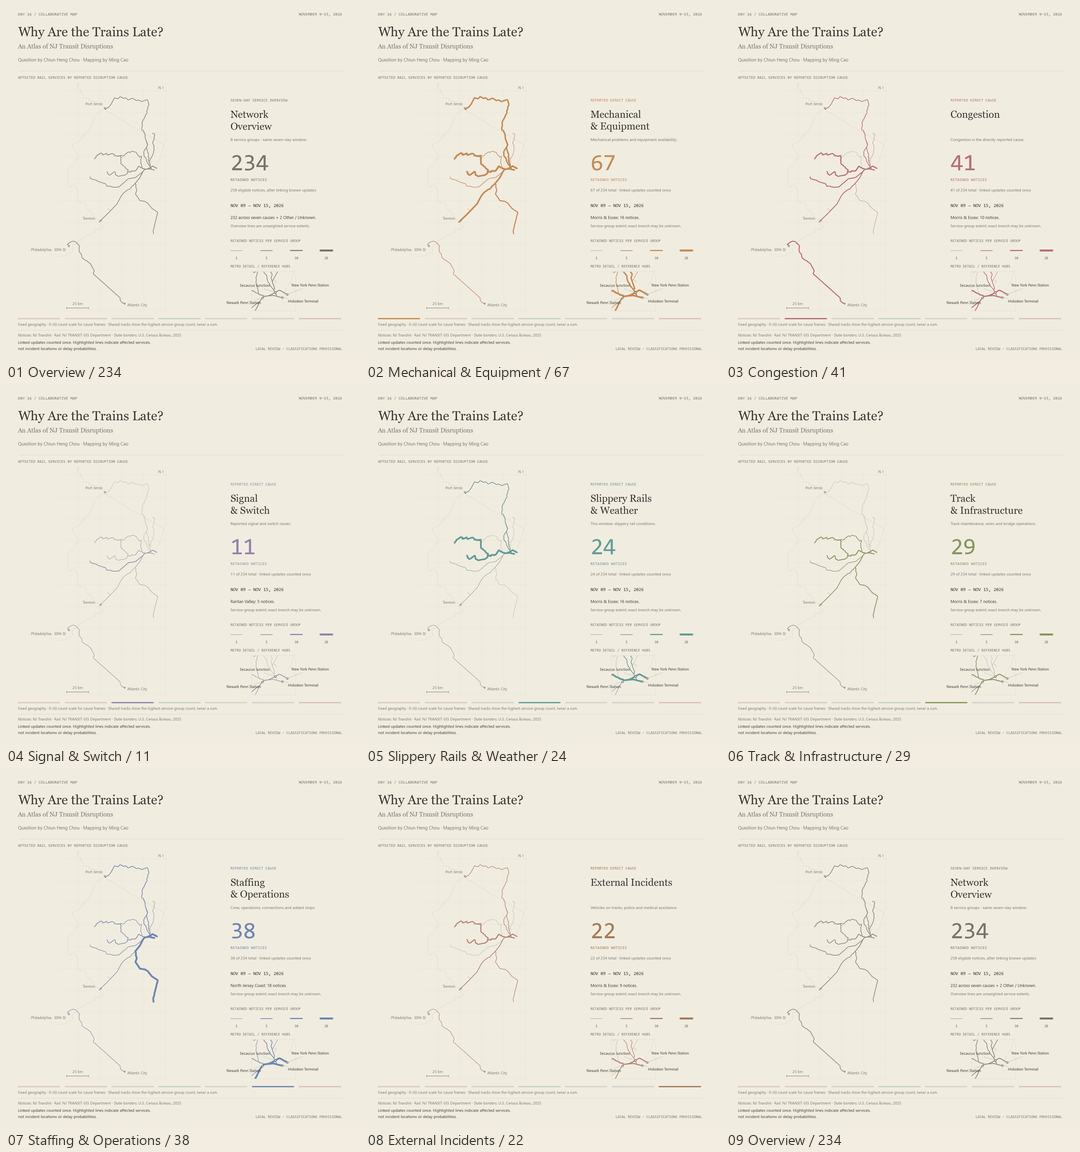
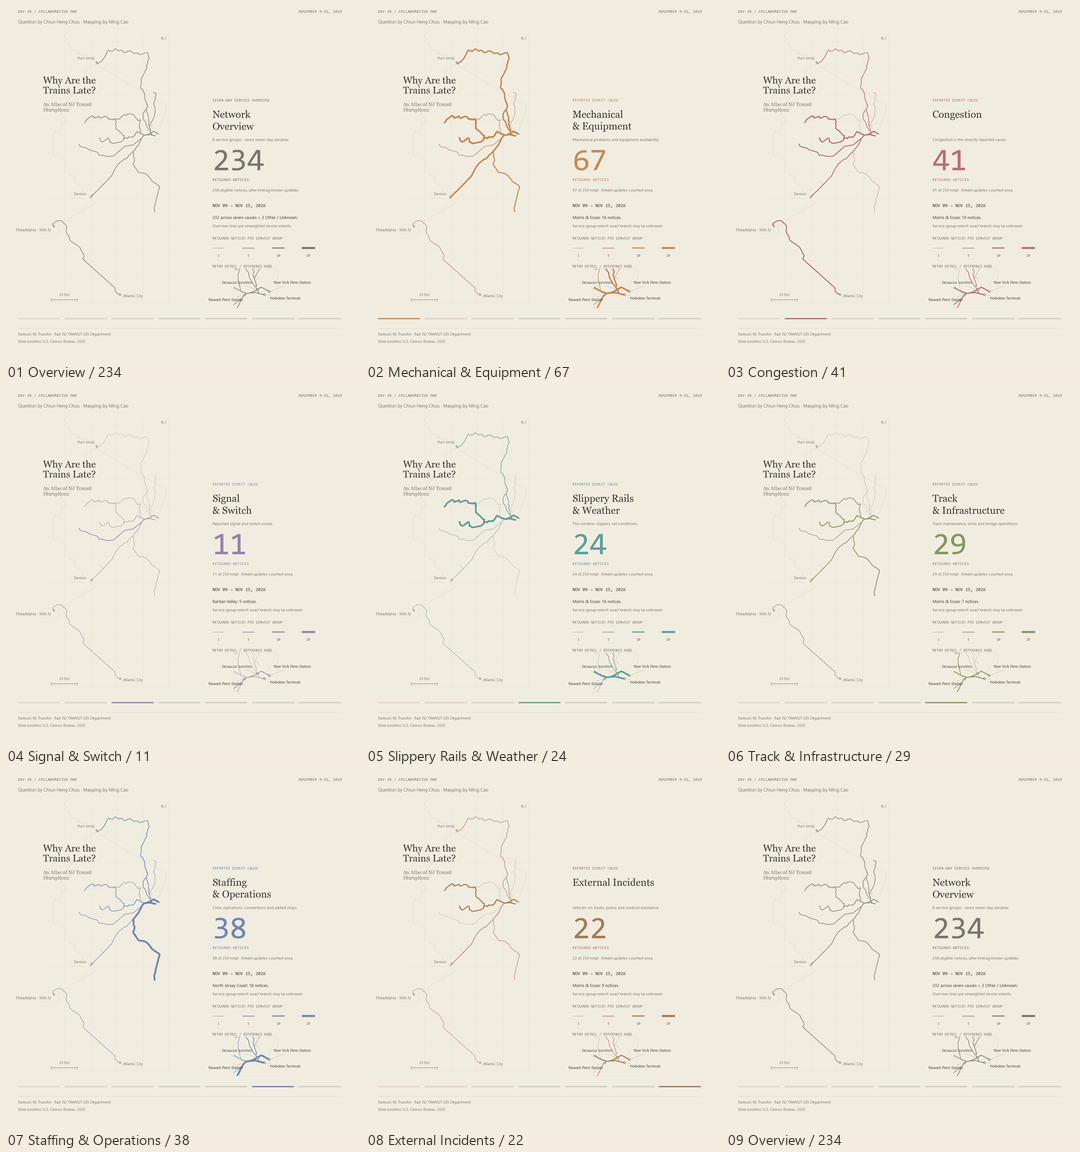
day16

diff --git a/docs/index.html b/docs/index.html
@@ -6,6 +6,8 @@
 /* Keep Day 14 artwork centered at 75% within its original display area. */
 #day-14 .media-grid figure{aspect-ratio:720 / 655;position:relative}
 #day-14 .cover-link{position:absolute;width:75%;max-width:100%;left:12.5%;top:50%;transform:translateY(-50%)}
+/* Selected artwork uses 70% of its existing media column, without transform scaling. */
+#day-04 .cover-link,#day-09 .cover-link,#day-16 .cover-link{width:70%;margin-inline:auto}
 </style></head><body><main><div class="intro"><div class="eyebrow">30 DAY MAP CHALLENGE 2026</div><h1>Map collection</h1><p>Maps and spatial illustrations by Ming Cao.</p></div><section class="gallery" aria-label="Completed maps"><article id="day-01" aria-labelledby="title-01"><header><p class="day">DAY 01 / POINTS</p><h2 id="title-01">NYC Changing Station Explorer</h2><p class="description">Public changing-table locations across New York City are mapped from NYC Open Data restroom records and grouped by reported placement.</p><p class="tools">Python · JavaScript · Leaflet · Playwright</p><nav class="links" aria-label="Day 01 resources"><a href="nyc-changing-stations/" target="_blank" rel="noopener noreferrer">View interactive map</a><a href="https://github.com/MingC404/30DayMapChallenge/tree/main/01" target="_blank" rel="noopener noreferrer">Source &amp; methods</a><a href="nyc-changing-stations/preview.png" target="_blank" rel="noopener noreferrer">Static PNG</a></nav></header><div class="media-grid"><figure><a class="cover-link" href="nyc-changing-stations/" target="_blank" rel="noopener noreferrer" aria-label="NYC Changing Station Explorer — Animated changing-table map — Open interactive map (new tab)"><img src="nyc-changing-stations/preview.gif" alt="NYC borough map of changing tables reported in public restrooms" width="1200" height="900"></a></figure></div></article>
 <article id="day-02" aria-labelledby="title-02"><header><p class="day">DAY 02 / LINES</p><h2 id="title-02">Waterfront Walks</h2><p class="description">Recorded waterfront paths in Jersey City and Brooklyn are classified by surface and walking-permission tags from OpenStreetMap.</p><p class="tools">Python · JavaScript · SVG · Pillow</p><nav class="links" aria-label="Day 02 resources"><a href="02/" target="_blank" rel="noopener noreferrer">View interactive map</a><a href="https://github.com/MingC404/30DayMapChallenge/tree/main/02" target="_blank" rel="noopener noreferrer">Source &amp; methods</a><a href="assets/02/waterfront_walks.png" target="_blank" rel="noopener noreferrer">Static PNG</a></nav></header><div class="media-grid"><figure><a class="cover-link" href="02/" target="_blank" rel="noopener noreferrer" aria-label="Waterfront Walks — Animated waterfront paths — Open interactive map (new tab)"><img src="assets/02/waterfront_walks.gif" alt="Jersey City and Brooklyn waterfront paths classified by recorded surface" width="1200" height="900" loading="lazy"></a></figure></div></article>
 <article id="day-03" aria-labelledby="title-03"><header><p class="day">DAY 03 / POLYGONS</p><h2 id="title-03">Inside the Park</h2><p class="description">Activity spaces and paths in three Jersey City parks are mapped from OpenStreetMap polygons and tags. Separate panels use metric scales and a shared location map.</p><p class="tools">Python · Pillow · Shapely · pyproj</p><nav class="links" aria-label="Day 03 resources"><a href="https://github.com/MingC404/30DayMapChallenge/tree/main/03" target="_blank" rel="noopener noreferrer">Source &amp; methods</a><a href="assets/03/inside_the_park_jc.png" target="_blank" rel="noopener noreferrer">Static PNG</a></nav></header><div class="media-grid"><figure><a class="cover-link" href="assets/03/inside_the_park_jc.gif" target="_blank" rel="noopener noreferrer" aria-label="Inside the Park — Animated three-park map — Open full-size animation (new tab)"><img src="assets/03/inside_the_park_jc.gif" alt="Activity polygons and paths in Hamilton, Lafayette, and Berry Lane parks" width="1200" height="793" loading="lazy"></a></figure></div></article>

diff --git a/scripts/maps_index_template.html b/scripts/maps_index_template.html
@@ -6,6 +6,8 @@
 /* Keep Day 14 artwork centered at 75% within its original display area. */
 #day-14 .media-grid figure{aspect-ratio:720 / 655;position:relative}
 #day-14 .cover-link{position:absolute;width:75%;max-width:100%;left:12.5%;top:50%;transform:translateY(-50%)}
+/* Selected artwork uses 70% of its existing media column, without transform scaling. */
+#day-04 .cover-link,#day-09 .cover-link,#day-16 .cover-link{width:70%;margin-inline:auto}
 </style></head><body><main><div class="intro"><div class="eyebrow">30 DAY MAP CHALLENGE 2026</div><h1>Map collection</h1><p>Maps and spatial illustrations by Ming Cao.</p></div><section class="gallery" aria-label="Completed maps"><article id="day-01" aria-labelledby="title-01"><header><p class="day">DAY 01 / POINTS</p><h2 id="title-01">NYC Changing Station Explorer</h2><p class="description">Public changing-table locations across New York City are mapped from NYC Open Data restroom records and grouped by reported placement.</p><p class="tools">Python · JavaScript · Leaflet · Playwright</p><nav class="links" aria-label="Day 01 resources"><a href="nyc-changing-stations/" target="_blank" rel="noopener noreferrer">View interactive map</a><a href="https://github.com/MingC404/30DayMapChallenge/tree/main/01" target="_blank" rel="noopener noreferrer">Source &amp; methods</a><a href="nyc-changing-stations/preview.png" target="_blank" rel="noopener noreferrer">Static PNG</a></nav></header><div class="media-grid"><figure><a class="cover-link" href="nyc-changing-stations/" target="_blank" rel="noopener noreferrer" aria-label="NYC Changing Station Explorer — Animated changing-table map — Open interactive map (new tab)"><img src="nyc-changing-stations/preview.gif" alt="NYC borough map of changing tables reported in public restrooms" width="1200" height="900"></a></figure></div></article>
 <article id="day-02" aria-labelledby="title-02"><header><p class="day">DAY 02 / LINES</p><h2 id="title-02">Waterfront Walks</h2><p class="description">Recorded waterfront paths in Jersey City and Brooklyn are classified by surface and walking-permission tags from OpenStreetMap.</p><p class="tools">Python · JavaScript · SVG · Pillow</p><nav class="links" aria-label="Day 02 resources"><a href="02/" target="_blank" rel="noopener noreferrer">View interactive map</a><a href="https://github.com/MingC404/30DayMapChallenge/tree/main/02" target="_blank" rel="noopener noreferrer">Source &amp; methods</a><a href="assets/02/waterfront_walks.png" target="_blank" rel="noopener noreferrer">Static PNG</a></nav></header><div class="media-grid"><figure><a class="cover-link" href="02/" target="_blank" rel="noopener noreferrer" aria-label="Waterfront Walks — Animated waterfront paths — Open interactive map (new tab)"><img src="assets/02/waterfront_walks.gif" alt="Jersey City and Brooklyn waterfront paths classified by recorded surface" width="1200" height="900" loading="lazy"></a></figure></div></article>
 <article id="day-03" aria-labelledby="title-03"><header><p class="day">DAY 03 / POLYGONS</p><h2 id="title-03">Inside the Park</h2><p class="description">Activity spaces and paths in three Jersey City parks are mapped from OpenStreetMap polygons and tags. Separate panels use metric scales and a shared location map.</p><p class="tools">Python · Pillow · Shapely · pyproj</p><nav class="links" aria-label="Day 03 resources"><a href="https://github.com/MingC404/30DayMapChallenge/tree/main/03" target="_blank" rel="noopener noreferrer">Source &amp; methods</a><a href="assets/03/inside_the_park_jc.png" target="_blank" rel="noopener noreferrer">Static PNG</a></nav></header><div class="media-grid"><figure><a class="cover-link" href="assets/03/inside_the_park_jc.gif" target="_blank" rel="noopener noreferrer" aria-label="Inside the Park — Animated three-park map — Open full-size animation (new tab)"><img src="assets/03/inside_the_park_jc.gif" alt="Activity polygons and paths in Hamilton, Lafayette, and Berry Lane parks" width="1200" height="793" loading="lazy"></a></figure></div></article>

diff --git a/scripts/gallery_template.html b/scripts/gallery_template.html
@@ -6,4 +6,6 @@
 /* Keep Day 14 artwork centered at 75% within its original display area. */
 #day-14 .media-grid figure{aspect-ratio:720 / 655;position:relative}
 #day-14 .cover-link{position:absolute;width:75%;max-width:100%;left:12.5%;top:50%;transform:translateY(-50%)}
+/* Selected artwork uses 70% of its existing media column, without transform scaling. */
+#day-04 .cover-link,#day-09 .cover-link,#day-16 .cover-link{width:70%;margin-inline:auto}
 </style></head><body><main><div class="intro"><div class="eyebrow">30 DAY MAP CHALLENGE 2026</div><h1>Map collection</h1><p>Maps and spatial illustrations by Ming Cao.</p></div><section class="gallery" aria-label="Completed maps"><!-- GALLERY_ENTRIES --></section><footer class="page-footer">Ming Cao · <a href="https://github.com/MingC404/30DayMapChallenge" target="_blank" rel="noopener noreferrer">Source, data credits &amp; methods</a></footer></main></body></html>

diff --git a/16/scripts/render_final.py b/16/scripts/render_final.py
@@ -16,6 +16,10 @@ from shapely.geometry import shape,box
 
 ROOT=a.ROOT; OUT=ROOT/'outputs';FRAMES=OUT/'frames';FRAMES.mkdir(parents=True,exist_ok=True)
 W=H=1440;DPI=120
+# Layout-only revision: fixed extent, equal aspect, unchanged source geometry.
+MAP_RECT=(.025,.15,.55,.76)
+SIDEBAR=.59
+LEGEND_POSITION=(SIDEBAR,.335)
 ORDER=['Mechanical & Equipment','Congestion','Signal & Switch','Slippery Rails & Weather',
        'Track & Infrastructure','Staffing & Operations','External Incidents']
 SEQUENCE=[None]+ORDER+[None]
@@ -55,47 +59,45 @@ def cause_title(cat):
 
 def render(cat):
     fig=a.plt.figure(figsize=(12,12),dpi=DPI)
-    a.txt(fig,.05,.957,a.EYEBROW,10,a.MUTED,fontproperties=a.MONO)
-    a.txt(fig,.95,.957,'NOVEMBER 9–15, 2026',10,a.MUTED,ha='right',fontproperties=a.MONO)
-    a.txt(fig,.05,.899,'Why Are the Trains Late?',31,fontproperties=a.SERIF)
-    a.txt(fig,.05,.865,'An Atlas of NJ Transit Disruptions',15,a.MUTED,fontproperties=a.SERIF)
-    a.txt(fig,.05,.829,a.CREDIT,11,a.MUTED)
-    a.rule(fig,.803)
-    a.txt(fig,.05,.781,'AFFECTED RAIL SERVICES BY REPORTED DISRUPTION CAUSE',9.4,a.MUTED,fontproperties=a.MONO)
-    ax=a.map_axes(fig,a.C_MAP_RECT,cat,hubs=True,endpoints=True,grid=True)
+    a.txt(fig,.05,.965,a.EYEBROW,10,a.MUTED,fontproperties=a.MONO)
+    a.txt(fig,.95,.965,'NOVEMBER 9\u201315, 2026',10,a.MUTED,ha='right',fontproperties=a.MONO)
+    a.txt(fig,.05,.935,a.CREDIT,11,a.MUTED)
+    ax=a.map_axes(fig,MAP_RECT,cat,hubs=True,endpoints=True,grid=True)
     border=add_borders(ax);a.scalebar(ax)
+    # Title sits inside the geographic axes' upper-left blank area.
+    ax.text(.015,.84,'Why Are the\nTrains Late?',transform=ax.transAxes,
+      fontsize=23,fontproperties=a.SERIF,color=a.INK,zorder=30,va='top',linespacing=1.12)
+    ax.text(.015,.745,'An Atlas of NJ Transit\nDisruptions',transform=ax.transAxes,
+      fontsize=12,fontproperties=a.SERIF,color=a.MUTED,zorder=30,va='top')
     color=a.COLORS[cat] if cat else a.MUTED
-    a.txt(fig,.64,.718,'REPORTED DIRECT CAUSE' if cat else 'SEVEN-DAY SERVICE OVERVIEW',9.5,color,fontproperties=a.MONO)
+    a.txt(fig,SIDEBAR,.718,'REPORTED DIRECT CAUSE' if cat else 'SEVEN-DAY SERVICE OVERVIEW',9.5,color,fontproperties=a.MONO)
     top,bottom=cause_title(cat)
-    a.txt(fig,.64,.673,top,24,fontproperties=a.SERIF)
-    a.txt(fig,.64,.64,bottom,24,fontproperties=a.SERIF)
+    a.txt(fig,SIDEBAR,.673,top,24,fontproperties=a.SERIF)
+    a.txt(fig,SIDEBAR,.64,bottom,24,fontproperties=a.SERIF)
     subtitle=SUBTITLES[cat] if cat else f'{SERVICE_GROUPS} service groups · same seven-day window.'
-    a.txt(fig,.64,.608,subtitle,9.7,a.MUTED)
+    a.txt(fig,SIDEBAR,.608,subtitle,9.7,a.MUTED)
     n=COUNTS[cat] if cat else len(a.records)
-    a.txt(fig,.64,.527,str(n),56,color,fontproperties=a.MONO)
-    a.txt(fig,.64,.497,'RETAINED NOTICES',10,color,fontproperties=a.MONO)
-    a.txt(fig,.64,.468,f'{n} of {len(a.records)} total · linked updates counted once' if cat else f'{ELIGIBLE_COUNT} eligible notices, after linking known updates',9.7,a.MUTED)
-    a.txt(fig,.64,.425,'NOV 09 — NOV 15, 2026',11,fontproperties=a.MONO)
+    a.txt(fig,SIDEBAR,.527,str(n),76,color,fontproperties=a.MONO)
+    a.txt(fig,SIDEBAR,.497,'RETAINED NOTICES',10,color,fontproperties=a.MONO)
+    a.txt(fig,SIDEBAR,.468,f'{n} of {len(a.records)} total · linked updates counted once' if cat else f'{ELIGIBLE_COUNT} eligible notices, after linking known updates',9.7,a.MUTED)
+    a.txt(fig,SIDEBAR,.425,'NOV 09 — NOV 15, 2026',11,fontproperties=a.MONO)
     if cat:
         peak,value=a.counts[cat].most_common(1)[0]
-        a.txt(fig,.64,.392,f'{a.LABELS[peak]}: {value} notices.',10,a.INK)
-        a.txt(fig,.64,.369,'Service-group extent; exact branch may be unknown.',9.3,a.MUTED)
+        a.txt(fig,SIDEBAR,.392,f'{a.LABELS[peak]}: {value} notices.',10,a.INK)
+        a.txt(fig,SIDEBAR,.369,'Service-group extent; exact branch may be unknown.',9.3,a.MUTED)
     else:
-        a.txt(fig,.64,.392,f'{SEVEN_CAUSE_COUNT} across seven causes + {COUNTS["Other / Unknown"]} Other / Unknown.',10,a.INK)
-        a.txt(fig,.64,.369,'Overview lines are unweighted service extents.',9.3,a.MUTED)
-    a.legend(fig,*a.C_LEGEND_POSITION,color,w=.25,note=False)
-    a.txt(fig,.64,.257,'METRO DETAIL / REFERENCE HUBS',8.8,a.MUTED,fontproperties=a.MONO)
-    inset=a.metro_inset(fig,[.64,.137,.24,.109],cat);ib=add_borders(inset)
+        a.txt(fig,SIDEBAR,.392,f'{SEVEN_CAUSE_COUNT} across seven causes + {COUNTS["Other / Unknown"]} Other / Unknown.',10,a.INK)
+        a.txt(fig,SIDEBAR,.369,'Overview lines are unweighted service extents.',9.3,a.MUTED)
+    a.legend(fig,*LEGEND_POSITION,color,w=.25,note=False)
+    a.txt(fig,SIDEBAR,.257,'METRO DETAIL / REFERENCE HUBS',8.8,a.MUTED,fontproperties=a.MONO)
+    inset=a.metro_inset(fig,[SIDEBAR,.145,.24,.109],cat);ib=add_borders(inset)
     for i,c in enumerate(ORDER):
         xx=.05+i*.13
         fig.add_artist(Rectangle((xx,.113),.117,.004,transform=fig.transFigure,
           facecolor=a.COLORS[c],edgecolor='none',alpha=1 if c==cat else .3))
-    a.txt(fig,.05,.095,'Fixed geography · 0–20 count scale for cause frames · Shared tracks show the highest service-group count, never a sum.',9.1,a.MUTED)
-    a.rule(fig,.083)
-    a.txt(fig,.05,.065,'Notices: NJ Transhit · Rail: NJ TRANSIT GIS Department · State borders: U.S. Census Bureau, 2025',9.3,a.MUTED)
-    a.txt(fig,.05,.045,'Linked updates counted once. Highlighted lines indicate affected services,',9.8,a.INK)
-    a.txt(fig,.05,.028,'not incident locations or delay probabilities.',9.8,a.INK)
-    a.txt(fig,.95,.028,'LOCAL REVIEW · CLASSIFICATIONS PROVISIONAL',8.5,a.MUTED,ha='right',fontproperties=a.MONO)
+    a.rule(fig,.088)
+    a.txt(fig,.05,.068,'Notices: NJ Transhit \u00b7 Rail: NJ TRANSIT GIS Department',9.3,a.MUTED)
+    a.txt(fig,.05,.048,'State borders: U.S. Census Bureau, 2025',9.3,a.MUTED)
     # Keep supporting text >=9 pt (10px at a 960px-wide normal web presentation).
     for label in list(fig.texts)+list(ax.texts)+list(inset.texts):
         label.set_fontsize(max(9,label.get_fontsize()))
@@ -142,7 +144,7 @@ def main():
     quantized[0].save(OUT/'day16_njt_disruptions.gif',save_all=True,append_images=quantized[1:],
       duration=DURATIONS,loop=0,disposal=1,optimize=True)
     manifest={'canvas':[W,H],'projection':'EPSG:32618','fixed_map_extent_utm':list(a.EXTENT),
-      'main_map_rectangle':list(a.C_MAP_RECT),'legend_position':list(a.C_LEGEND_POSITION),
+      'main_map_rectangle':list(MAP_RECT),'legend_position':list(LEGEND_POSITION),
       'count_scale':[0,20],'line_width_points':'0.65 + 4.1 * n / 20',
       'overview_line_width_points':1.6,'overview_quantitative_line_width':False,
       'total_retained_notices':len(a.records),'eligible_notices':ELIGIBLE_COUNT,'category_counts':dict(COUNTS),
@@ -153,7 +155,7 @@ def main():
       'analysis_source':'data/processed/analysis_representatives.csv',
       'analysis_sha256':hashlib.sha256((ROOT/'data/processed/analysis_representatives.csv').read_bytes()).hexdigest(),
       'count_rule':'one representative per verified update group; one direct-cause category per representative; unknown included only in total',
-      'minimum_supporting_font_points':9,'publication_status':'LOCAL ONLY; NJ Transhit reuse permission unresolved'}
+      'minimum_supporting_font_points':9,'publication_status':'Owner-authorized personal publication; NJ Transhit and NJT reuse permission unresolved'}
     (OUT/'animation_manifest.json').write_text(json.dumps(manifest,indent=2),encoding='utf-8')
     # A normal 960px web-display review, not an alternate published cover.
     frames[0].resize((960,960),Image.Resampling.LANCZOS).save(OUT/'web_readability_preview_960.png')

diff --git a/16/scripts/verify_final.py b/16/scripts/verify_final.py
@@ -44,7 +44,7 @@ def main():
     static=np.ones((1440,1440),dtype=bool)
     rect_mask(static,m['frame_alignment'][0]['main_position'])
     rect_mask(static,m['frame_alignment'][0]['inset_position'])
-    rect_mask(static,(.62,.25,.38,.49)) # changing sidebar and count-legend color
+    rect_mask(static,(.57,.25,.43,.49)) # changing sidebar and count-legend color
     rect_mask(static,(.045,.11,.91,.009)) # category sequence strip
     differences=[int(np.count_nonzero(np.any(frame!=decoded[0],axis=2)&static)) for frame in decoded]
     assert max(differences)==0,differences

diff --git a/16/README.md b/16/README.md
@@ -47,12 +47,12 @@ Attribution identifies the sources; it does not imply source-owner endorsement, 
 
 ### Published artwork and release scope
 
-- `outputs/day16_njt_disruptions.gif`: 1440×1440, nine frames, 17.5 seconds, infinite loop; 291,022 bytes.
-- `outputs/day16_njt_disruptions.png`: matching Opening Overview cover; 203,055 bytes.
+- `outputs/day16_njt_disruptions.gif`: 1440×1440, nine frames, 17.5 seconds, infinite loop; 298,481 bytes.
+- `outputs/day16_njt_disruptions.png`: matching Opening Overview cover; 178,933 bytes.
 
 The sequence is Overview → Mechanical & Equipment → Congestion → Signal & Switch → Slippery Rails & Weather → Track & Infrastructure → Staffing & Operations → External Incidents → Overview. Each opening/cause frame lasts 2 seconds; the closing Overview lasts 1.5 seconds. All frames share the same map extent, projection, rail/hub locations and layout.
 
-The project uses Python, Matplotlib, Shapely, PyProj and Pillow. Rendering scripts and required source snapshots remain in the local workspace. This release contains the artwork, credits and methods summary, not a self-contained public reproduction bundle; do not upload private inputs to make it self-contained. The images are published byte-for-byte and retain their original embedded LOCAL REVIEW and provisional-classification labels; no animation or statistics were changed for this release.
+The project uses Python, Matplotlib, Shapely, PyProj and Pillow. Rendering scripts and required source snapshots remain in the local workspace. This release contains the artwork, credits and methods summary, not a self-contained public reproduction bundle; do not upload private inputs to make it self-contained. The layout revision places the title inside the geographic map, enlarges the notice count and removes the embedded LOCAL REVIEW label and bottom method sentences. The methods and provisional classification status remain documented above; statistics, source geometry and animation timing are unchanged. The personal gallery displays Days 04, 09 and 16 at 70% width within their original media columns.
 
 **Do not publish the entire Day 16 directory.** `data/` contains raw HTML, full-text notice tables and downloaded GIS data; it is locally ignored, not deleted. Saved third-party terms in `outputs/publication_audit/` are also ignored. This release explicitly selects only the final images, this README, the publication review and the ignore rules, plus shared gallery integration files. Publishing these assets does not authorize raw-data redistribution, uploads to a college repository or a ZIP of the local workspace.
 

diff --git a/16/prototype_review.md b/16/prototype_review.md
@@ -359,3 +359,12 @@ y: 4346213.670485008 — 4609134.765382982
 `render_prototypes.py` 已加入 main guard，作为复用的样式／几何模块被导入时不会覆盖三个旧原型。`render_final.py` 和 `verify_final.py` 不进行网络访问、不运行清理脚本，输出单帧 PNG 留在 `outputs/frames/` 方便复核。依赖中新增 `pyshp==3.1.9`，仍安装在 Day 16 的 `.deps/`，没有修改其他日期环境。
 
 **发布状态：本地最终成品，未公开发布。** NJ Transhit 再利用许可仍 Unknown，Census 州界来源不会消除通知或铁路 GIS 的许可问题。本轮没有上传原始 HTML、通知全文、GIF 或 PNG，没有加入 GitHub Pages／学院仓库，没有修改 Day 01–15，没有 commit 或 push。等待用户确认成品。
+
+
+### Final layout refinement (local preview; source confirmation pending)
+
+Title and subtitle now occupy the main geographic axes upper-left space without changing the UTM extent or source geometry. The notice sidebar moves from x=0.64 to x=0.59 and the primary count grows from 56 to 76 points. The two bottom method sentences and lower-right LOCAL REVIEW label are removed from artwork; methodological limitations remain in README. Source credit and author credit remain visible. Canvas remains 1440 by 1440; nine frames, 17.5 seconds, infinite loop. All decoded frame transforms match; opening and closing overviews are identical.
+
+Day 04, 09 and 16 use scoped width:70% and margin-inline:auto on their gallery links. Browser checks at 1440, 390 and 320 pixels confirm centered native-aspect images with no overflow and other days unaffected. Day 04 and Day 09 original artwork are unchanged.
+
+The current artwork still uses NJ TRANSIT GIS, not OSM. OSM replacement remains incomplete. These local previews are not a claim of ODbL compliance; publication of this revision awaits confirmation resolving the request to preserve OSM geometry versus the existing NJT source.
